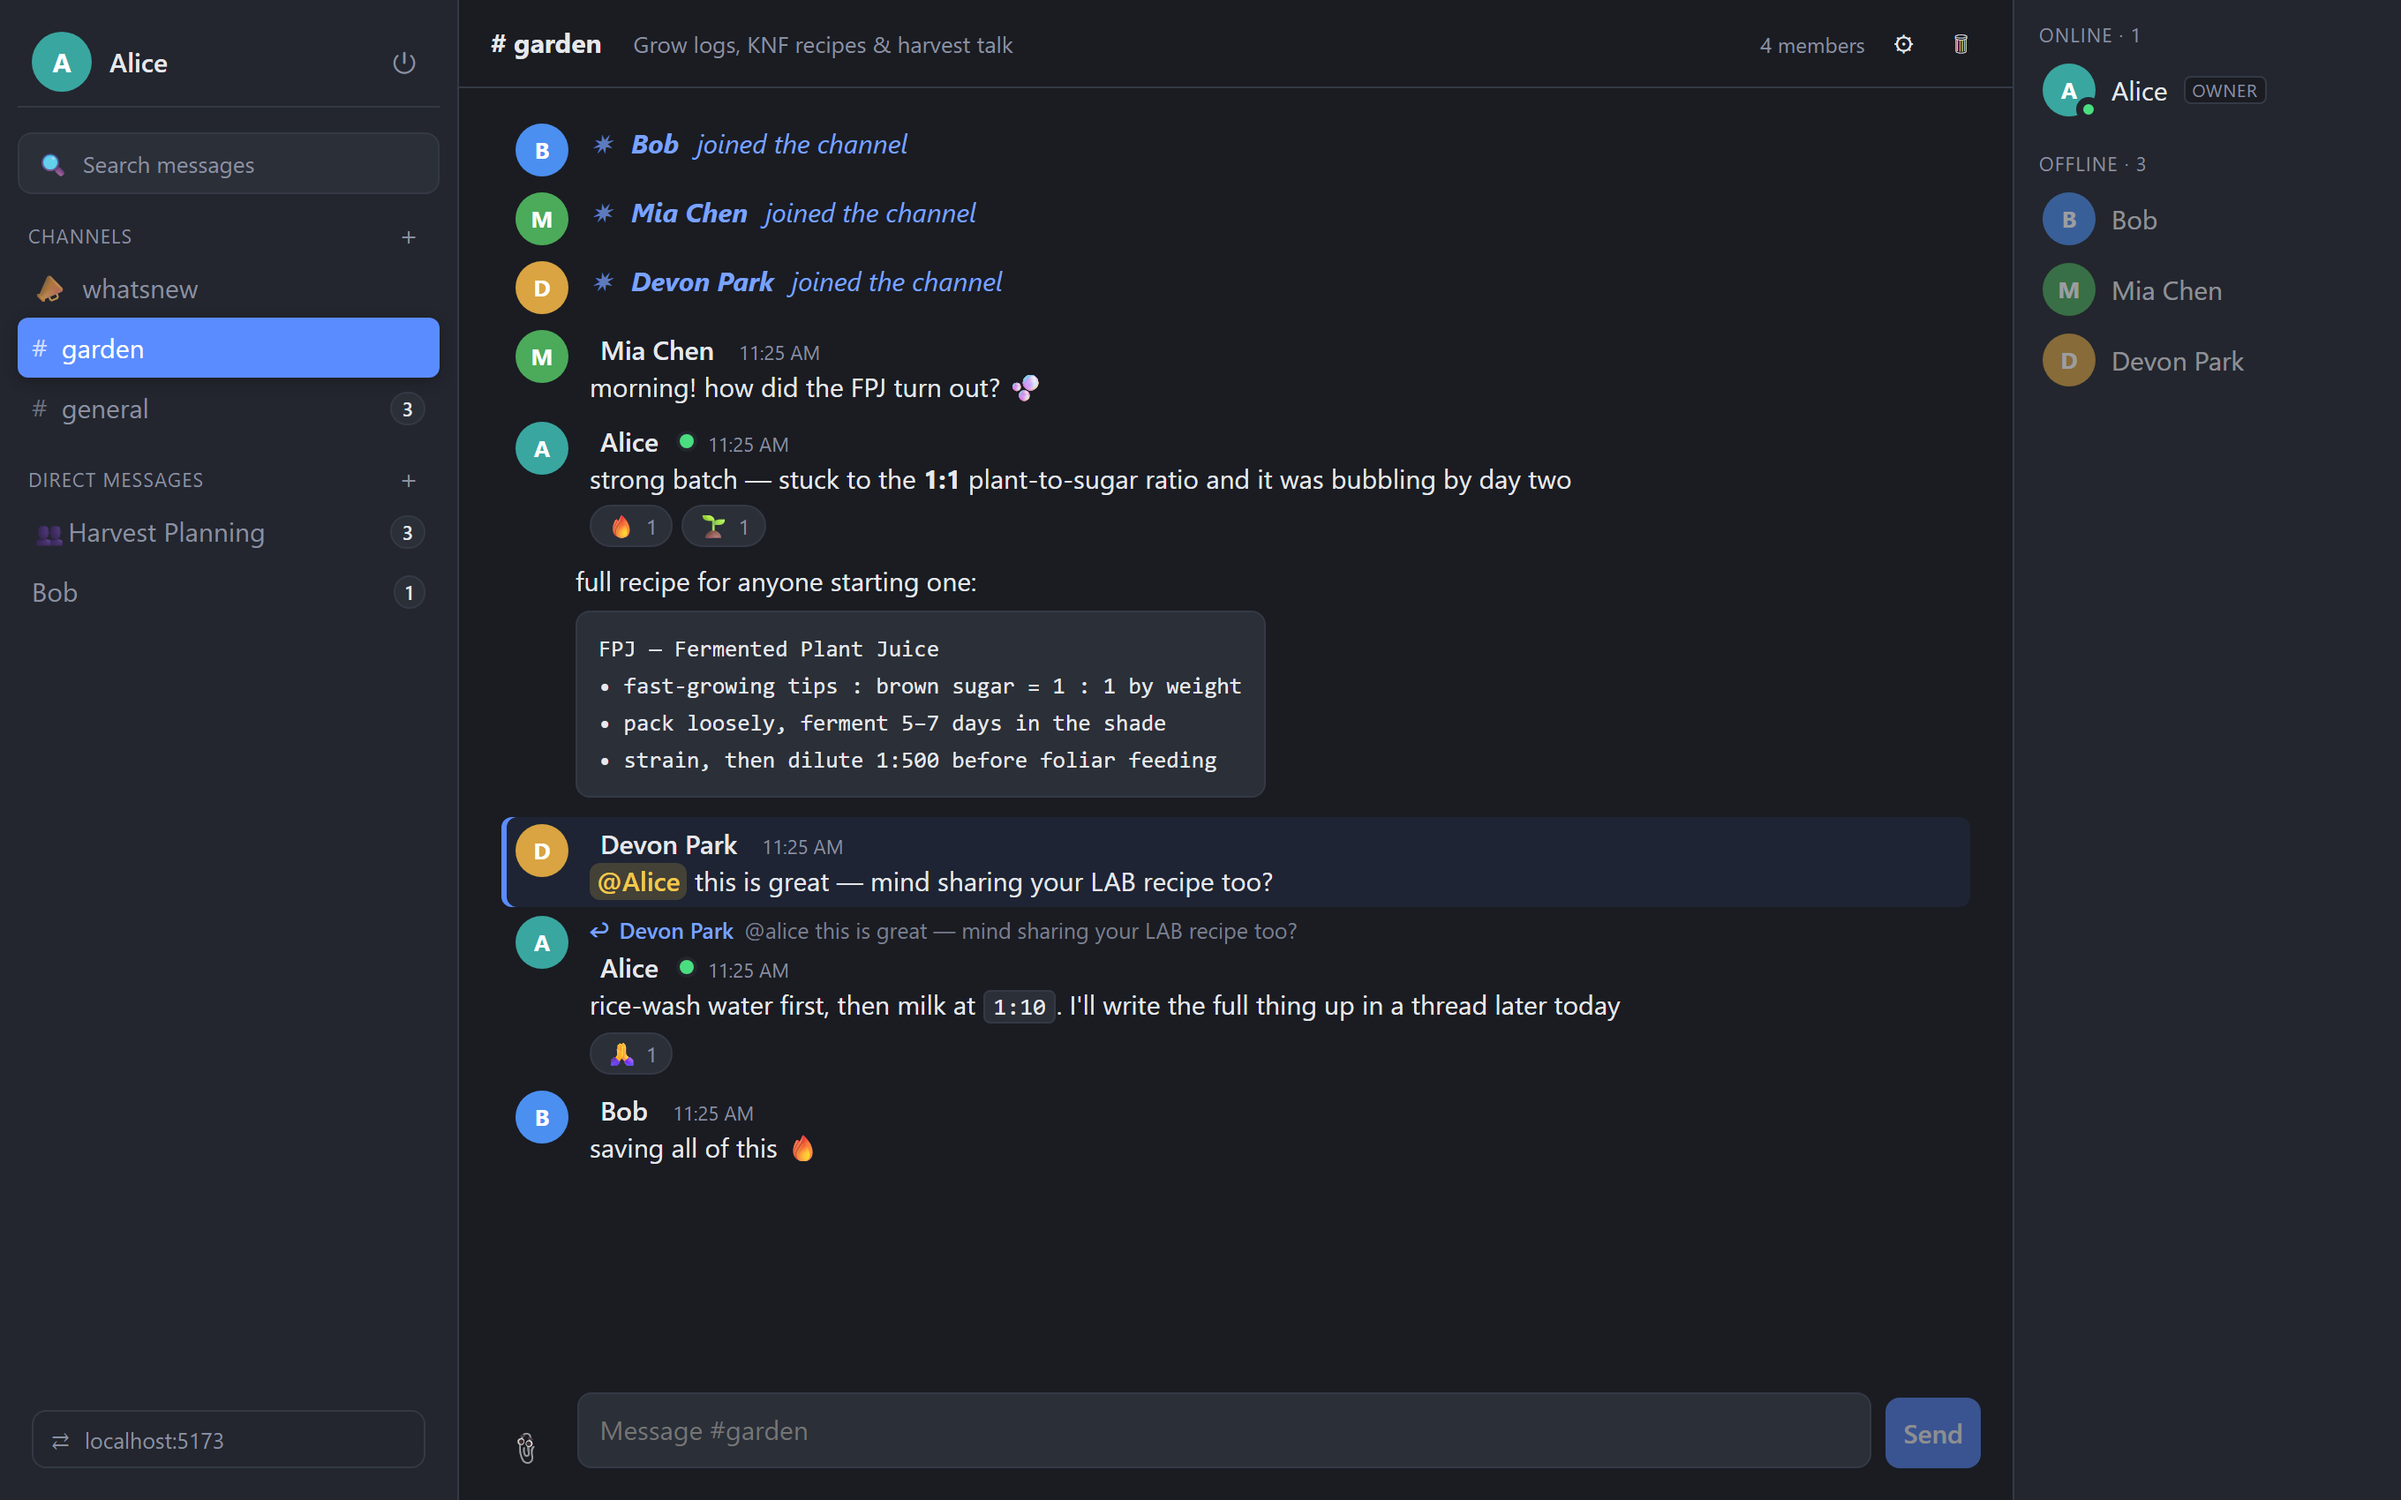
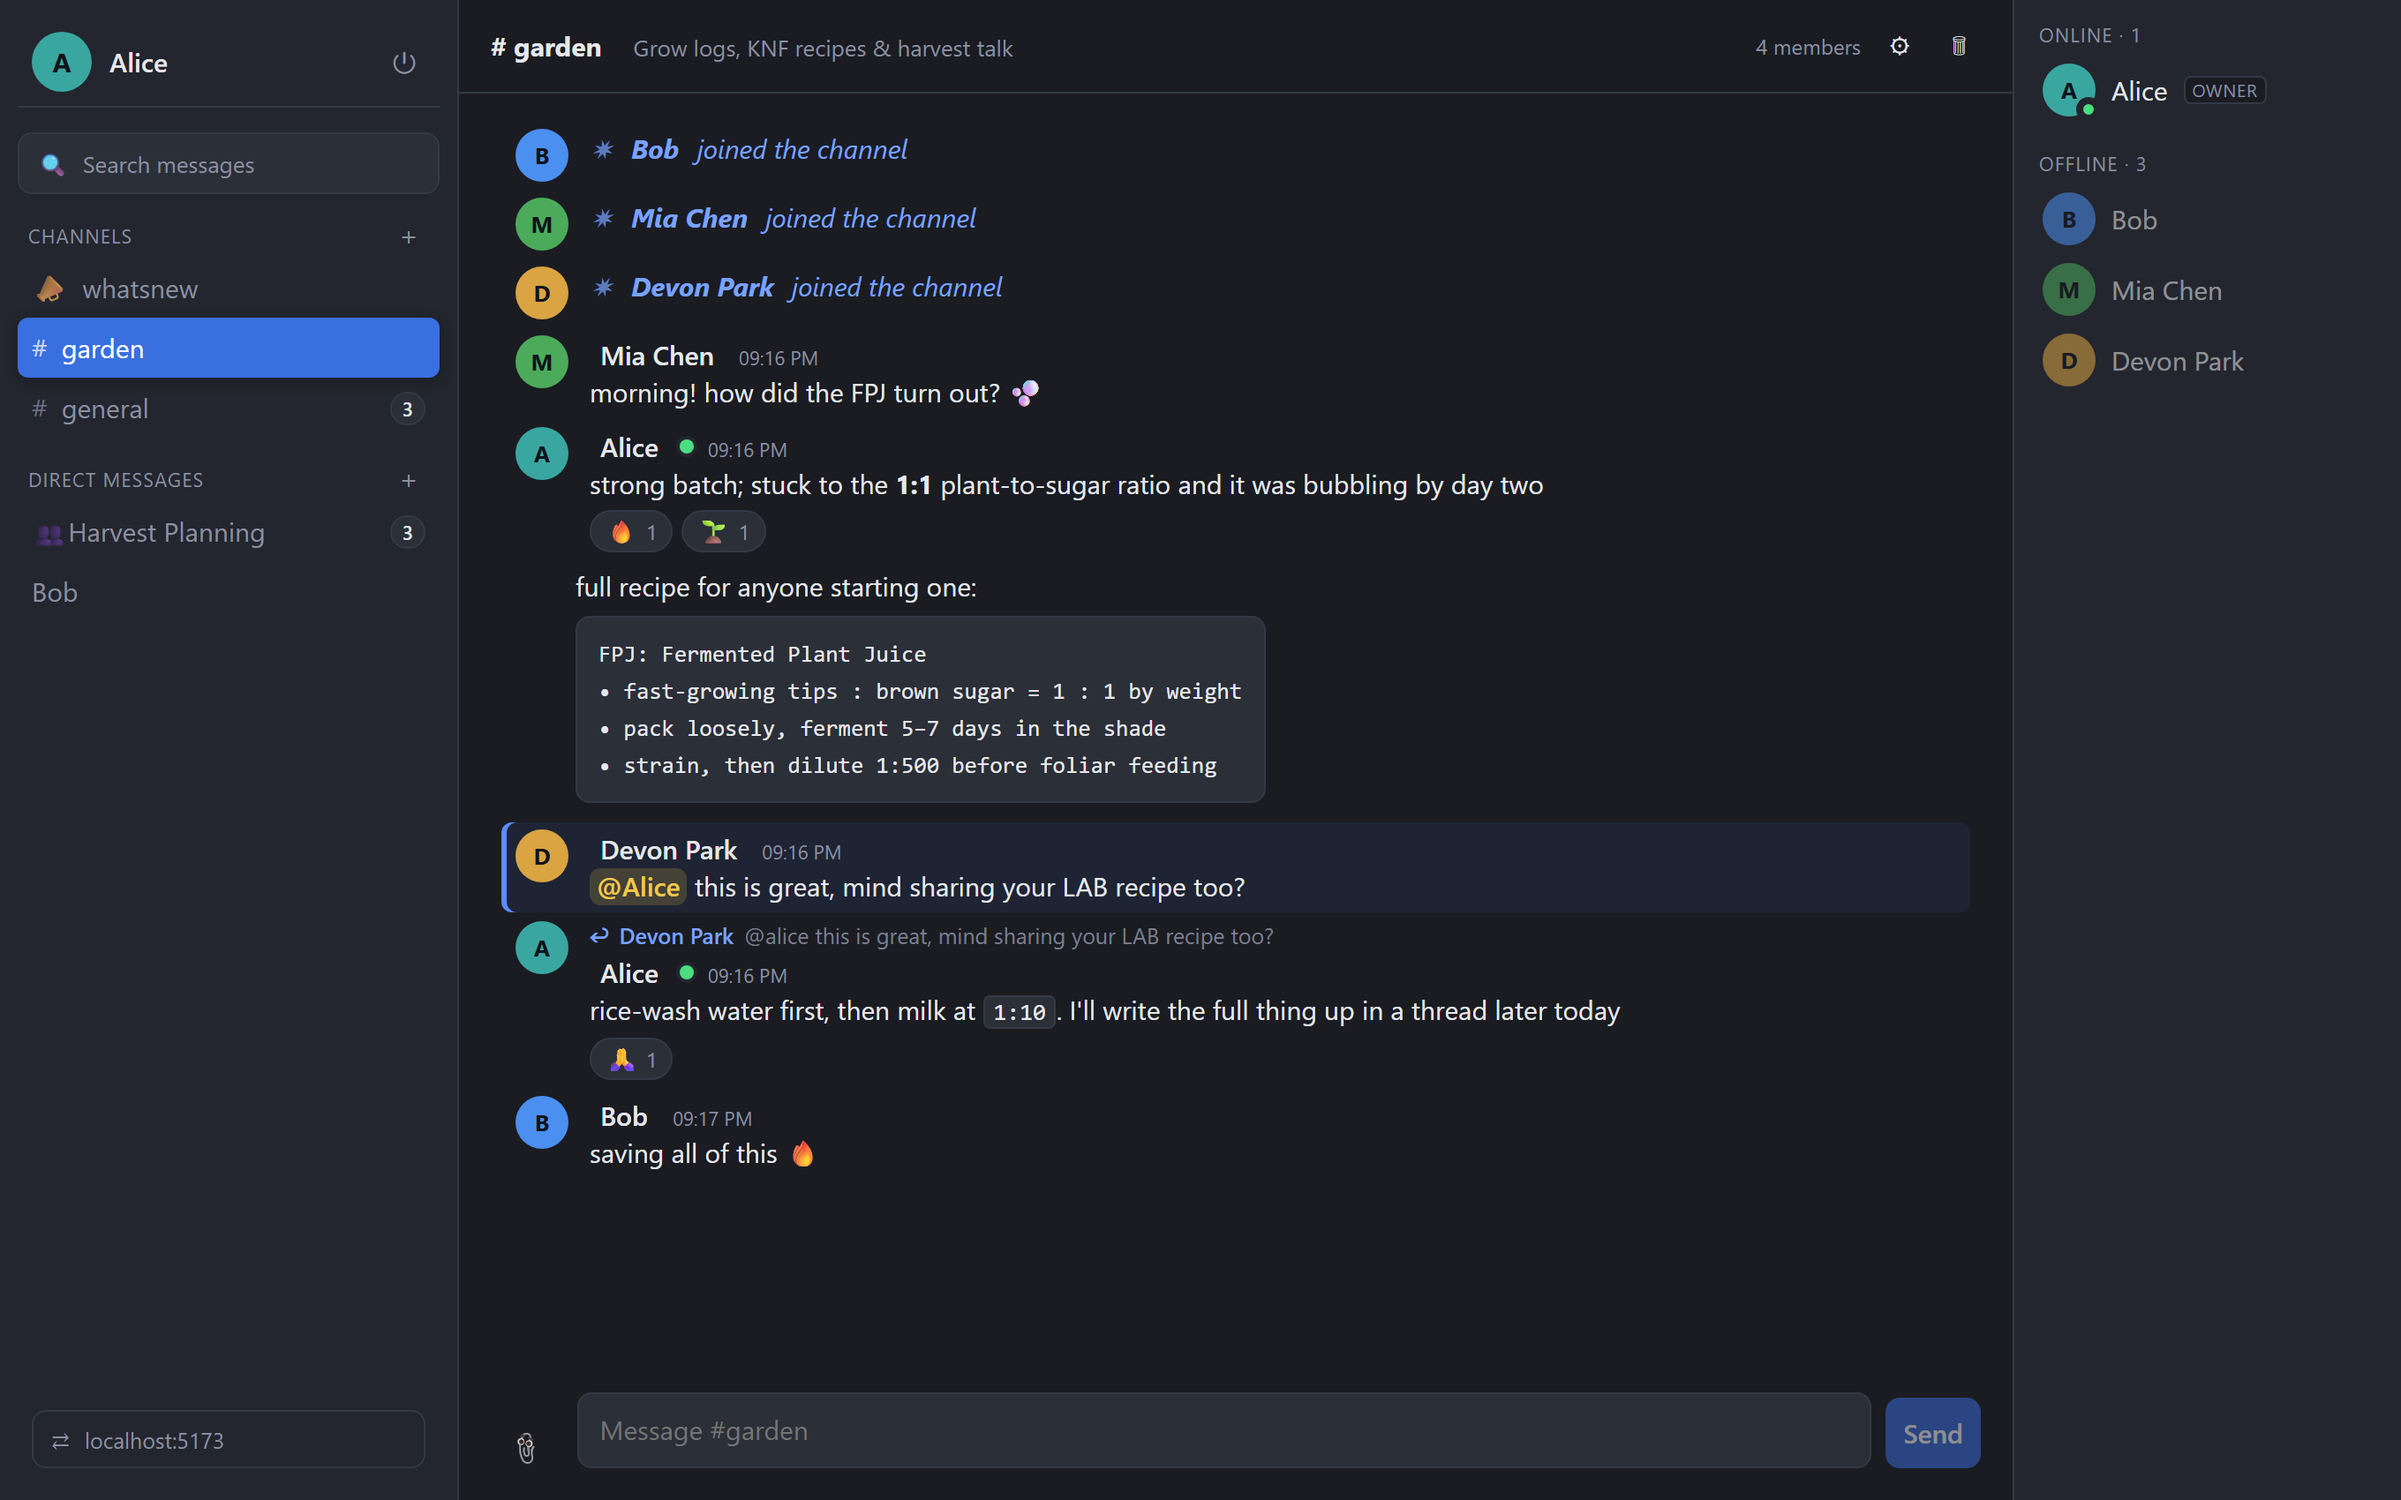
Regenerate screenshots for 1.26.0
Every shot predated this release, so all of them still showed white
avatar initials and the lighter accent on the Send button and the active
channel row. The mobile one also predated the header fix and showed the
channel name wrapped onto two lines; it truncates now.

Regenerated with capture-screenshots.mjs against a freshly seeded
database. The previous set was captured against a database carrying
pytest debris, so the sidebar listed generated channel names like
pw27362bf2 alongside the demo ones.

The seeded demo conversation used em-dashes, which was showing up in the
hero images on the marketing site and in the README. Reworded in
demo_setup.py and in the encrypted-DM exchange the capture script sends.

Copies the five the marketing site uses and the two the in-app guide
embeds, which are separate files rather than references.

diff --git a/backend/demo_setup.py b/backend/demo_setup.py
@@ -81,15 +81,15 @@ if __name__ == "__main__":
     # A realistic exchange that shows mentions, replies, formatting, code and reactions.
     post(mia, cid, "morning! how did the FPJ turn out? 🫧")
     m1 = post(alice, cid,
-              "strong batch — stuck to the **1:1** plant-to-sugar ratio and it was "
+              "strong batch; stuck to the **1:1** plant-to-sugar ratio and it was "
               "bubbling by day two")
     post(alice, cid,
          "full recipe for anyone starting one:\n"
-         "```\nFPJ — Fermented Plant Juice\n"
+         "```\nFPJ: Fermented Plant Juice\n"
          "• fast-growing tips : brown sugar = 1 : 1 by weight\n"
          "• pack loosely, ferment 5–7 days in the shade\n"
          "• strain, then dilute 1:500 before foliar feeding\n```")
-    q = post(devon, cid, f"@{alice_un} this is great — mind sharing your LAB recipe too?")
+    q = post(devon, cid, f"@{alice_un} this is great, mind sharing your LAB recipe too?")
     r = post(alice, cid,
              "rice-wash water first, then milk at `1:10`. I'll write the full thing "
              "up in a thread later today", reply_to=q["id"])
